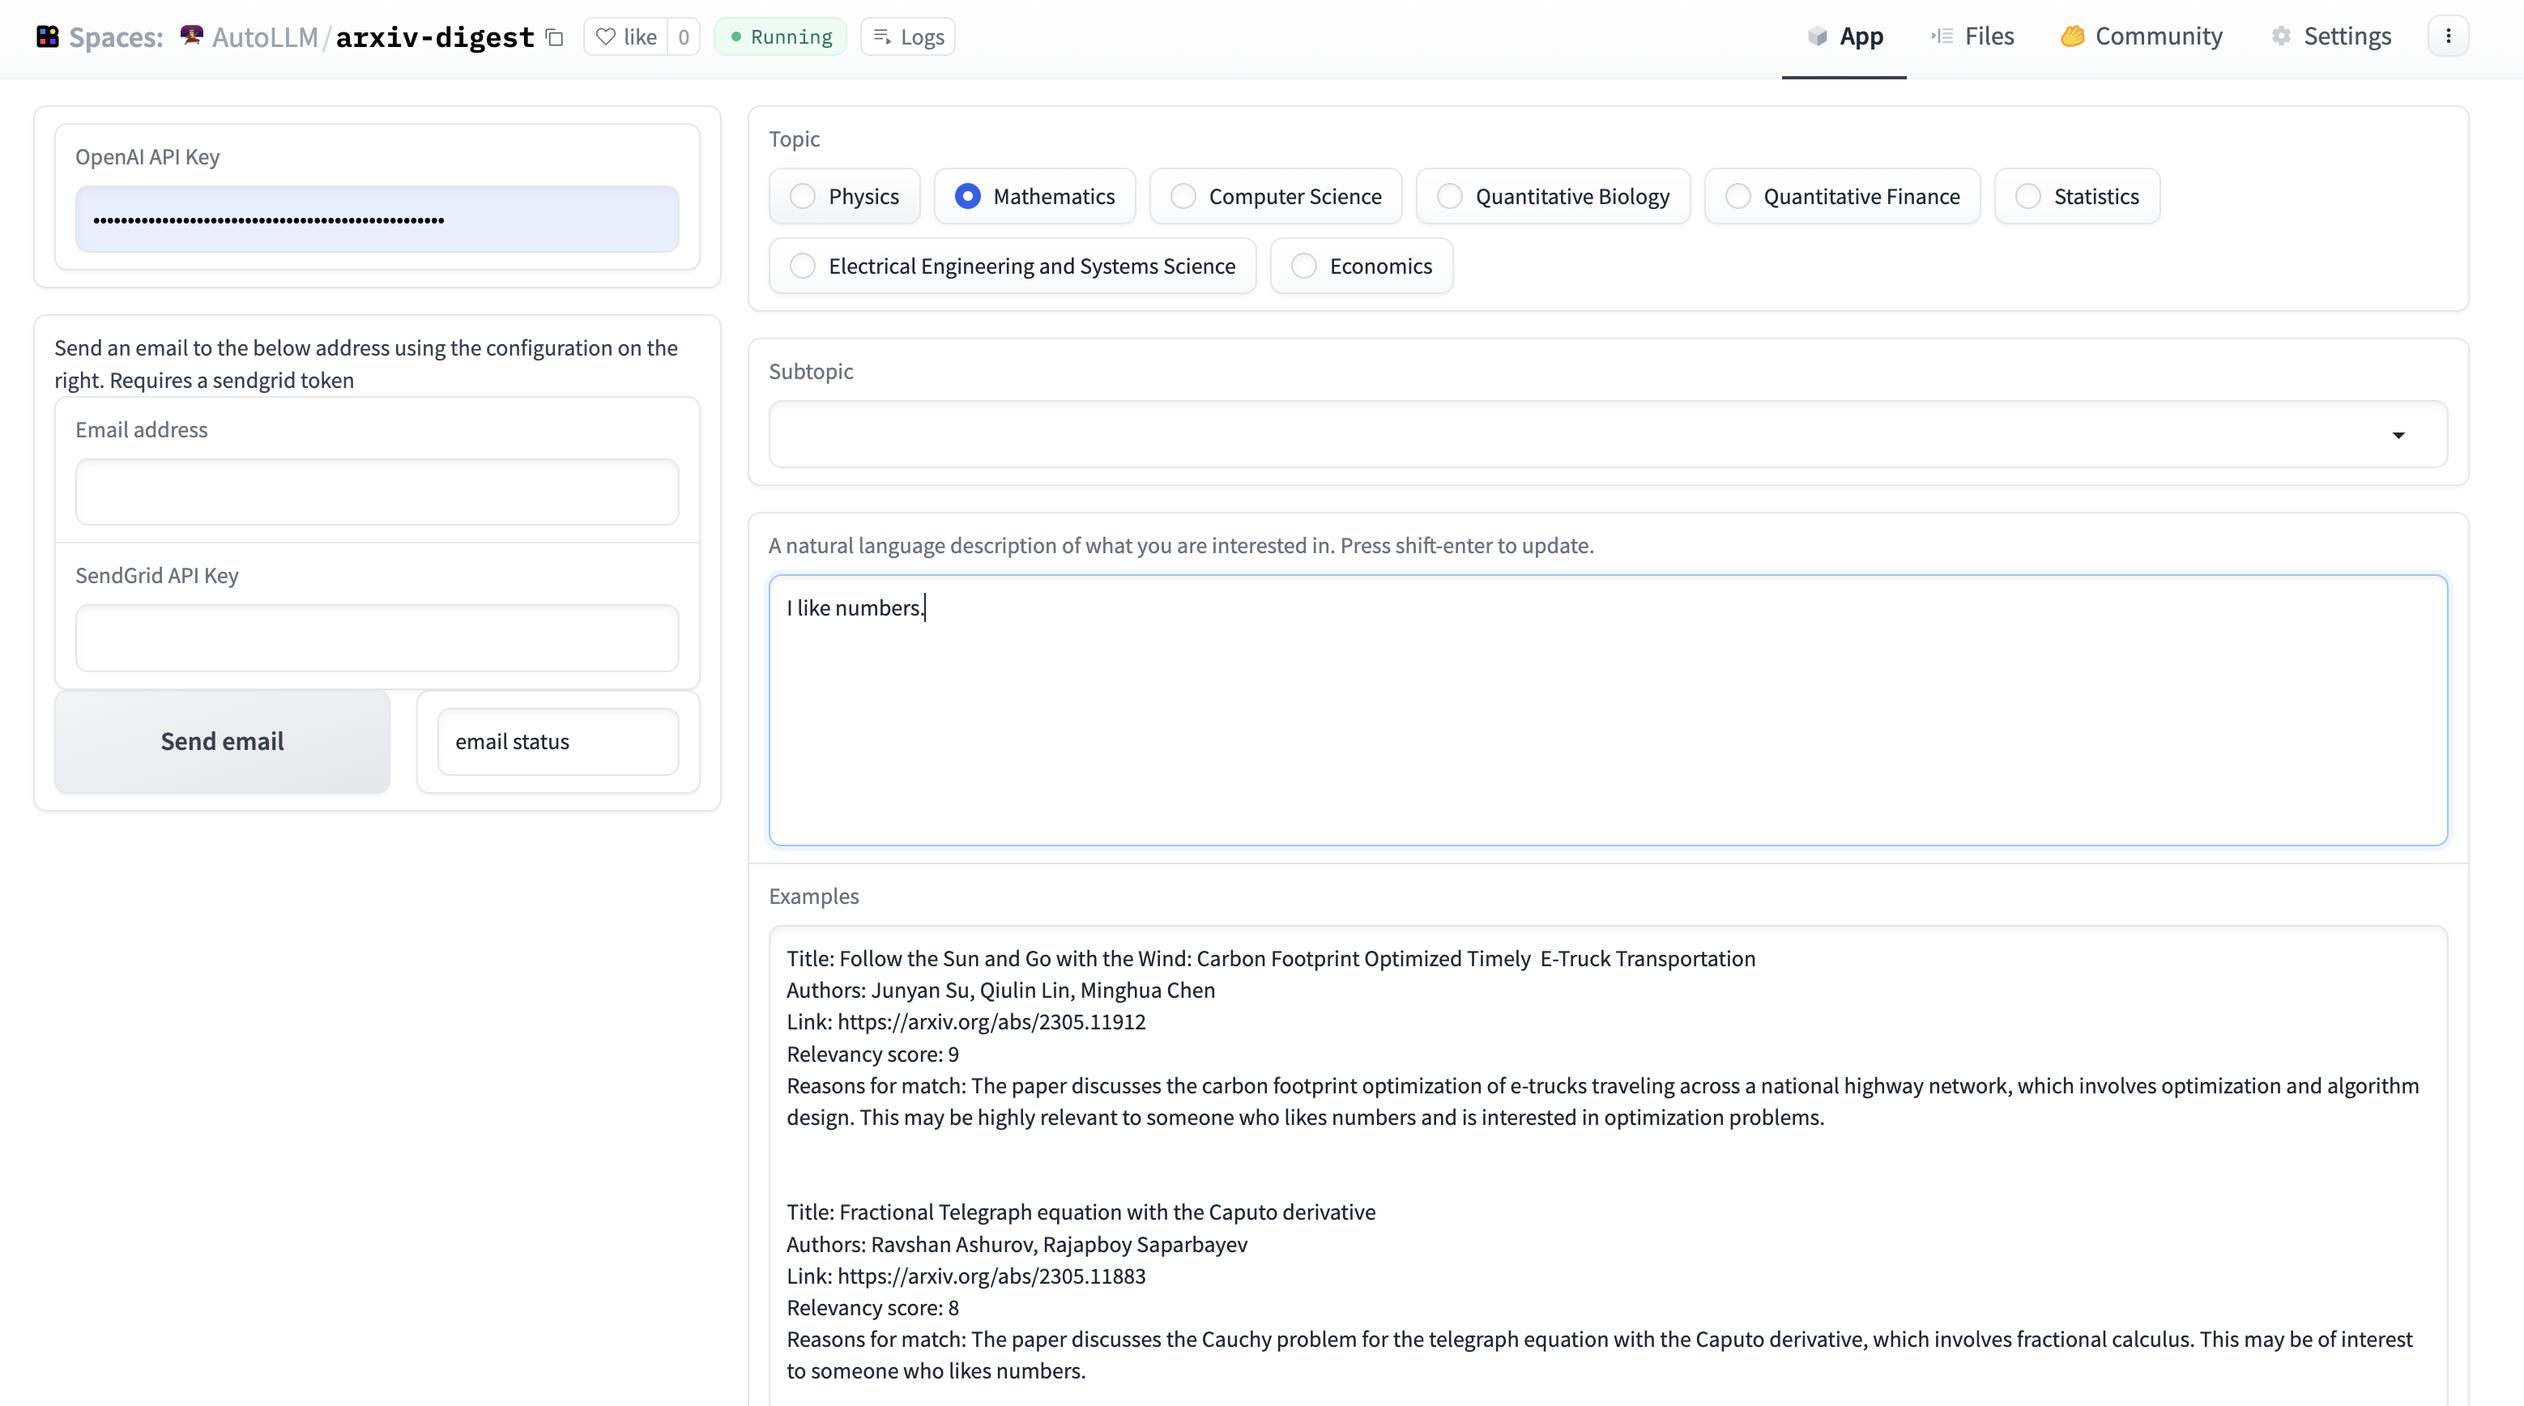
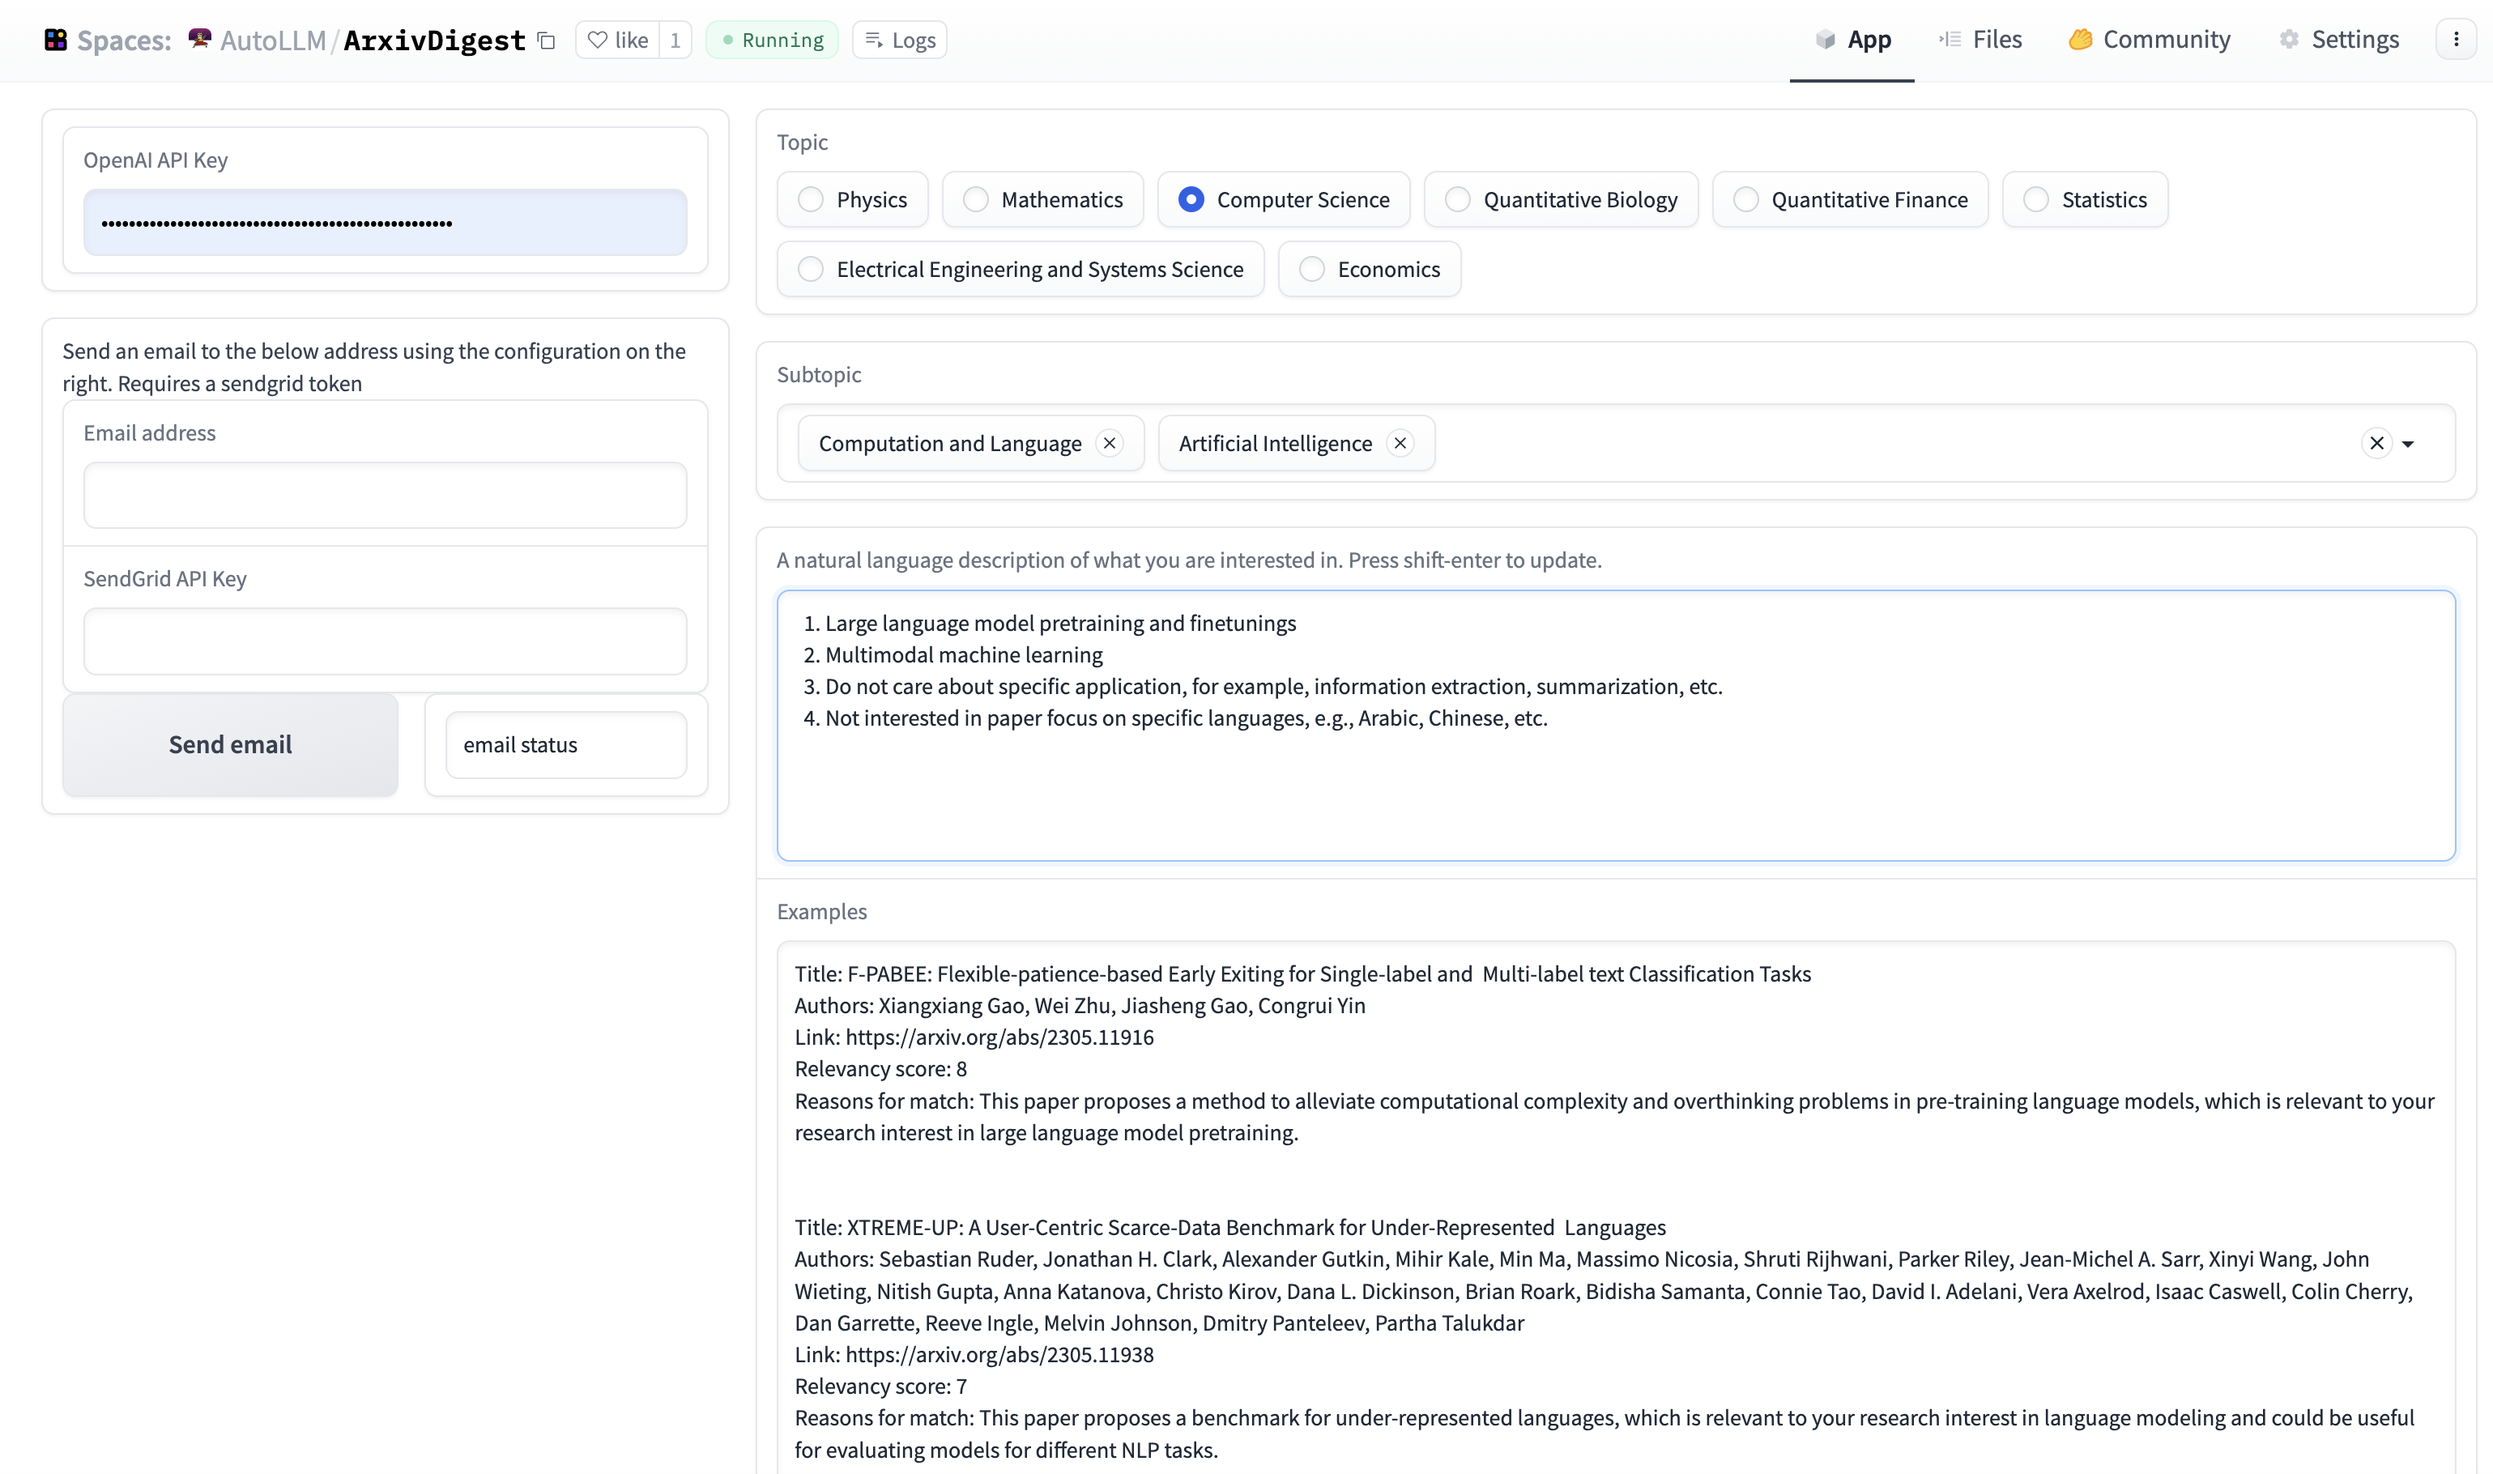
update app

diff --git a/src/app.py b/src/app.py
@@ -150,7 +150,6 @@ def test(email, topic, physics_topic, categories, interest, key):
 
 
 def register_openai_token(token):
-    print(f"registering new key: {token[:5]}")
     openai.api_key = token
 
 with gr.Blocks() as demo:
@@ -159,7 +158,7 @@ with gr.Blocks() as demo:
             with gr.Box():
                 token = gr.Textbox(label="OpenAI API Key", type="password")
             with gr.Box():
-                description = gr.HTML(value="Send an email to the below address using the configuration on the right. Requires a sendgrid token")
+                description = gr.HTML(value="Send an email to the below address using the configuration on the right. Requires a sendgrid token. These values are not needed to use the right side of this page.\n\n")
                 email = gr.Textbox(label="Email address", type="email", placeholder="")
                 sendgrid_token = gr.Textbox(label="SendGrid API Key", type="password")
                 with gr.Row():
@@ -176,10 +175,12 @@ with gr.Blocks() as demo:
             subject.change(fn=change_subsubject, inputs=[subject, physics_subject], outputs=subsubject)
             physics_subject.change(fn=change_subsubject, inputs=[subject, physics_subject], outputs=subsubject)
 
-            interest = gr.Textbox(label="A natural language description of what you are interested in. Press shift-enter to update.", lines=7)
-            sample_output = gr.Textbox(label="Examples")
+            interest = gr.Textbox(label="A natural language description of what you are interested in. Press shift-enter or click the button below to update.", lines=7)
+            sample_btn = gr.Button("Generate Digest")
+            sample_output = gr.Textbox(label="Results for your configuration")
     test_btn.click(fn=test, inputs=[email, subject, physics_subject, subsubject, interest, sendgrid_token], outputs=output)
     token.change(fn=register_openai_token, inputs=[token])
+    sample_btn.click(fn=sample, inputs=[email, subject, physics_subject, subsubject, interest], outputs=sample_output)
     subject.change(fn=sample, inputs=[email, subject, physics_subject, subsubject, interest], outputs=sample_output)
     physics_subject.change(fn=sample, inputs=[email, subject, physics_subject, subsubject, interest], outputs=sample_output)
     subsubject.change(fn=sample, inputs=[email, subject, physics_subject, subsubject, interest], outputs=sample_output)
